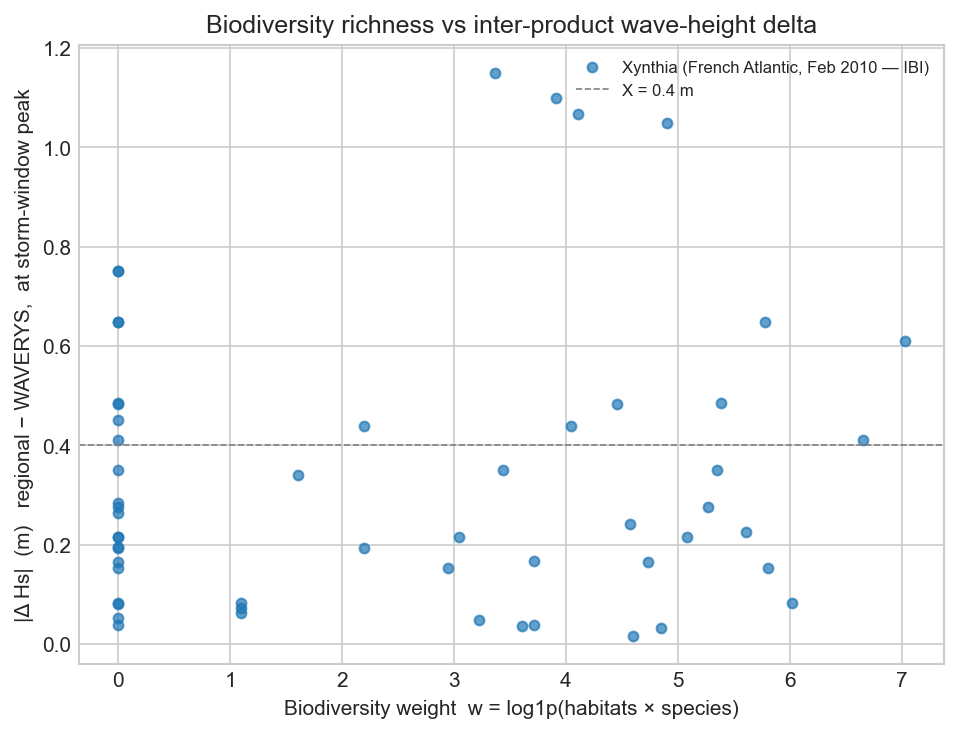
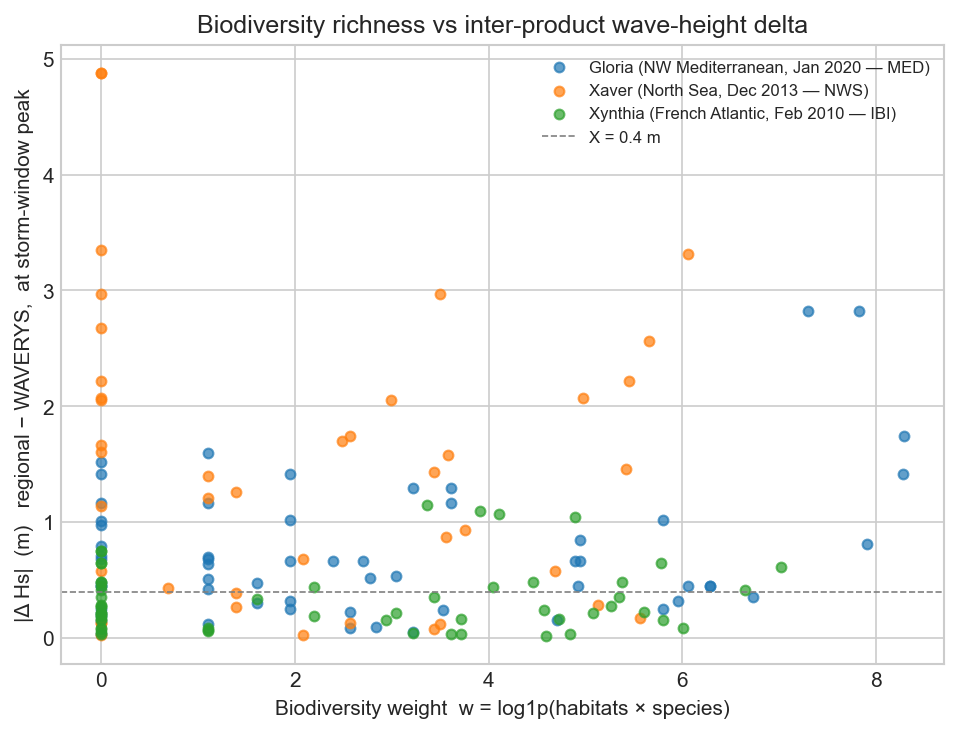
Phase 2: enable Xaver + Gloria — full three-storm panel
Activate the North Sea (Xaver, Dec 2013, NWS) and NW Mediterranean (Gloria,
Jan 2020, MED) storms alongside Xynthia. Fix two regional dataset IDs found
wrong at first download: NWS reanalysis is the legacy ID MetO-NWS-WAV-RAN,
and the MED hourly reanalysis is cmems_mod_med_wav_my_4.2km_PT1H-i (version
202511 covers 1985–2026, so Gloria's Jan 2020 is in range — the phase1-plan
A1 reanalysis-gap concern is resolved).

Headline (biodiversity-weighted fraction with |delta Hs| > 0.4 m):
  Xynthia (Biscay, IBI):   0.156  median |delta| 0.24 m
  Xaver   (N. Sea, NWS):   0.367  median |delta| 1.42 m
  Gloria  (Med, MED):      0.266  median |delta| 0.59 m
  Aggregated (327 sites):  0.246  (0.234 at per-region thresholds)

Clear cross-regime gradient: the product choice matters most in the shallow
North Sea, where ~1.5 km WAVEWATCH III resolves nearshore transformation that
0.2 deg WAVERYS misses and the two share less model lineage; least in open
Biscay; intermediate in the Med. Peak Hs ranges are physical (Gloria 9.5 m off
Catalonia). All sites fall within their wave bboxes (no coverage warnings).

diff --git a/notebooks/01_data_download.py b/notebooks/01_data_download.py
@@ -86,7 +86,9 @@ STORMS = {
         # German Bight, Doggerbank southern margin. Sites reach 10°E / 56.8°N.
         "bbox": {"lon_min": 1.5, "lon_max": 10.5, "lat_min": 50.5, "lat_max": 57.0},
         "waverys_dataset": "cmems_mod_glo_wav_my_0.2deg_PT3H-i",
-        "regional_dataset": "cmems_mod_nws_wav_my_0.027deg-0.014deg_PT1H-i",
+        # NWS wave reanalysis uses the legacy dataset ID (verified in the
+        # MEDSEA/NWS catalog 2026-05-24); covers 1980–2025, ~1.5 km, WAVEWATCH III.
+        "regional_dataset": "MetO-NWS-WAV-RAN",
         "regional_label": "NWS reanalysis WAV 004_015 ~1.5 km hourly",
     },
     "gloria": {
@@ -100,7 +102,10 @@ STORMS = {
         # offshore Catalonia.
         "bbox": {"lon_min": -2.75, "lon_max": 5.5, "lat_min": 37.0, "lat_max": 44.5},
         "waverys_dataset": "cmems_mod_glo_wav_my_0.2deg_PT3H-i",
-        "regional_dataset": "cmems_mod_med_wav_my_4.2km-2D_PT1H-i",
+        # MED hourly wave reanalysis; version 202511 covers 1985-01 → 2026-04,
+        # so Storm Gloria (Jan 2020) is in coverage (the phase1-plan A1 gap
+        # concern was resolved by the product's reanalysis-to-present extension).
+        "regional_dataset": "cmems_mod_med_wav_my_4.2km_PT1H-i",
         "regional_label": "MED MY 1/24° hourly",
     },
 }
@@ -112,8 +117,8 @@ WAVE_VARIABLES = ["VHM0", "VTPK", "VMDR"]
 
 # Which storms to actually fetch this run. Start with Xynthia only; uncomment
 # the other two once the Xynthia round-trip is validated.
-ACTIVE_STORMS = ["xynthia"]
-# ACTIVE_STORMS = ["xynthia", "xaver", "gloria"]
+# ACTIVE_STORMS = ["xynthia"]
+ACTIVE_STORMS = ["xynthia", "xaver", "gloria"]
 
 # %% [markdown]
 # ## Download helper

diff --git a/notebooks/02_data_clean.py b/notebooks/02_data_clean.py
@@ -49,8 +49,8 @@ CLEAN_DIR = Path("../data/clean")
 CLEAN_DIR.mkdir(parents=True, exist_ok=True)
 
 # Mirrors ACTIVE_STORMS in 01_data_download.py — keep these two in sync.
-ACTIVE_STORMS = ["xynthia"]
-# ACTIVE_STORMS = ["xynthia", "xaver", "gloria"]
+# ACTIVE_STORMS = ["xynthia"]
+ACTIVE_STORMS = ["xynthia", "xaver", "gloria"]
 
 # Drop the 24 h pre-storm spin-up padding before computing exposure metrics.
 STORM_WINDOWS = {

diff --git a/notebooks/03_analysis.py b/notebooks/03_analysis.py
@@ -54,8 +54,8 @@ CLEAN_DIR = Path("../data/clean")
 RESULTS_DIR = Path("../results")
 RESULTS_DIR.mkdir(parents=True, exist_ok=True)
 
-ACTIVE_STORMS = ["xynthia"]
-# ACTIVE_STORMS = ["xynthia", "xaver", "gloria"]
+# ACTIVE_STORMS = ["xynthia"]
+ACTIVE_STORMS = ["xynthia", "xaver", "gloria"]
 
 # Headline threshold (m, see § A3): one rounded value for the aggregated stat.
 THRESHOLD_X_HEADLINE = 0.4

diff --git a/notebooks/04_figures.py b/notebooks/04_figures.py
@@ -51,8 +51,8 @@ RESULTS_DIR = Path("../results")
 FIGURES_DIR = Path("../figures")
 FIGURES_DIR.mkdir(parents=True, exist_ok=True)
 
-ACTIVE_STORMS = ["xynthia"]
-# ACTIVE_STORMS = ["xynthia", "xaver", "gloria"]
+# ACTIVE_STORMS = ["xynthia"]
+ACTIVE_STORMS = ["xynthia", "xaver", "gloria"]
 
 STORM_LABELS = {
     "xynthia": "Xynthia (French Atlantic, Feb 2010 — IBI)",